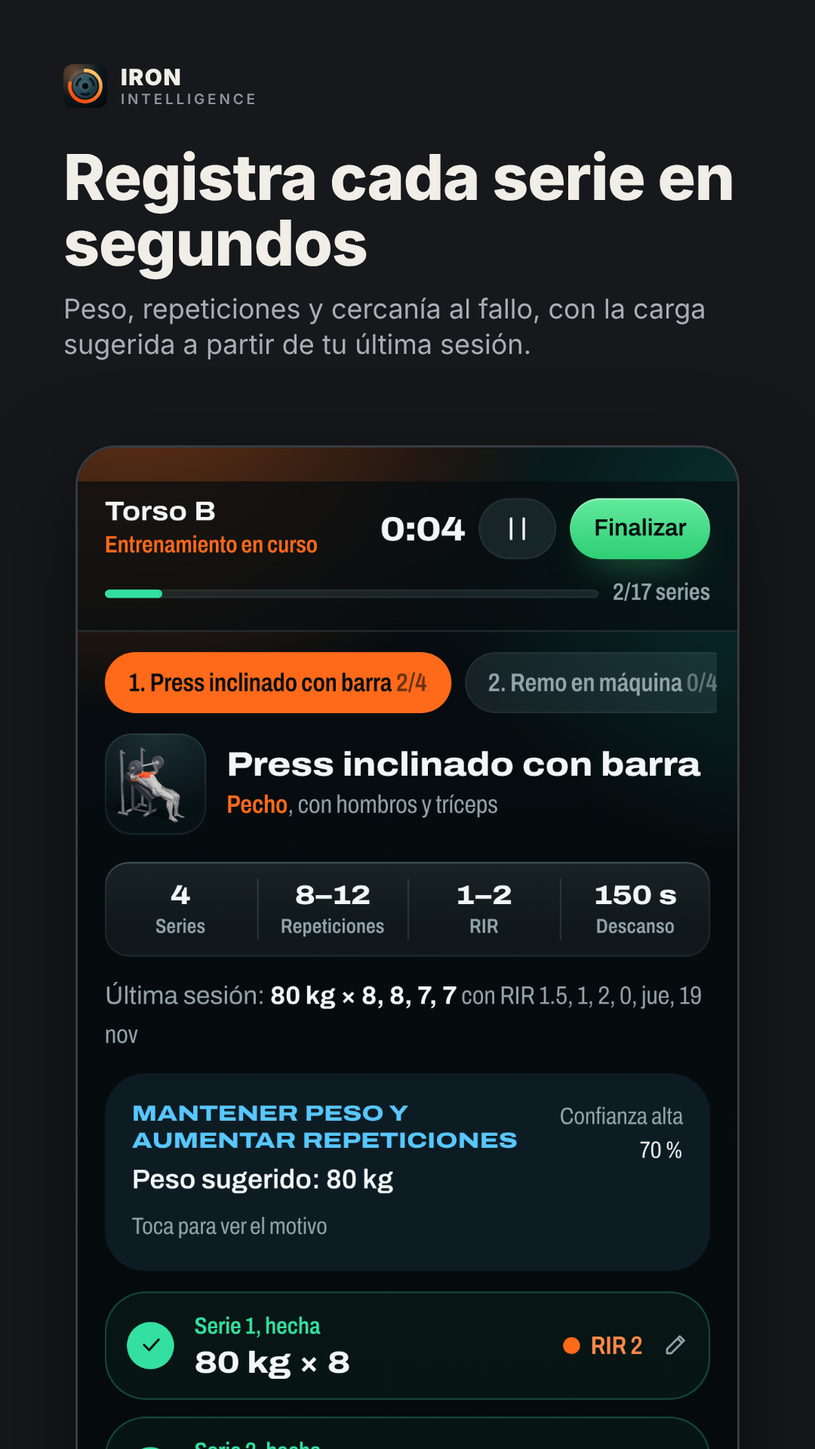
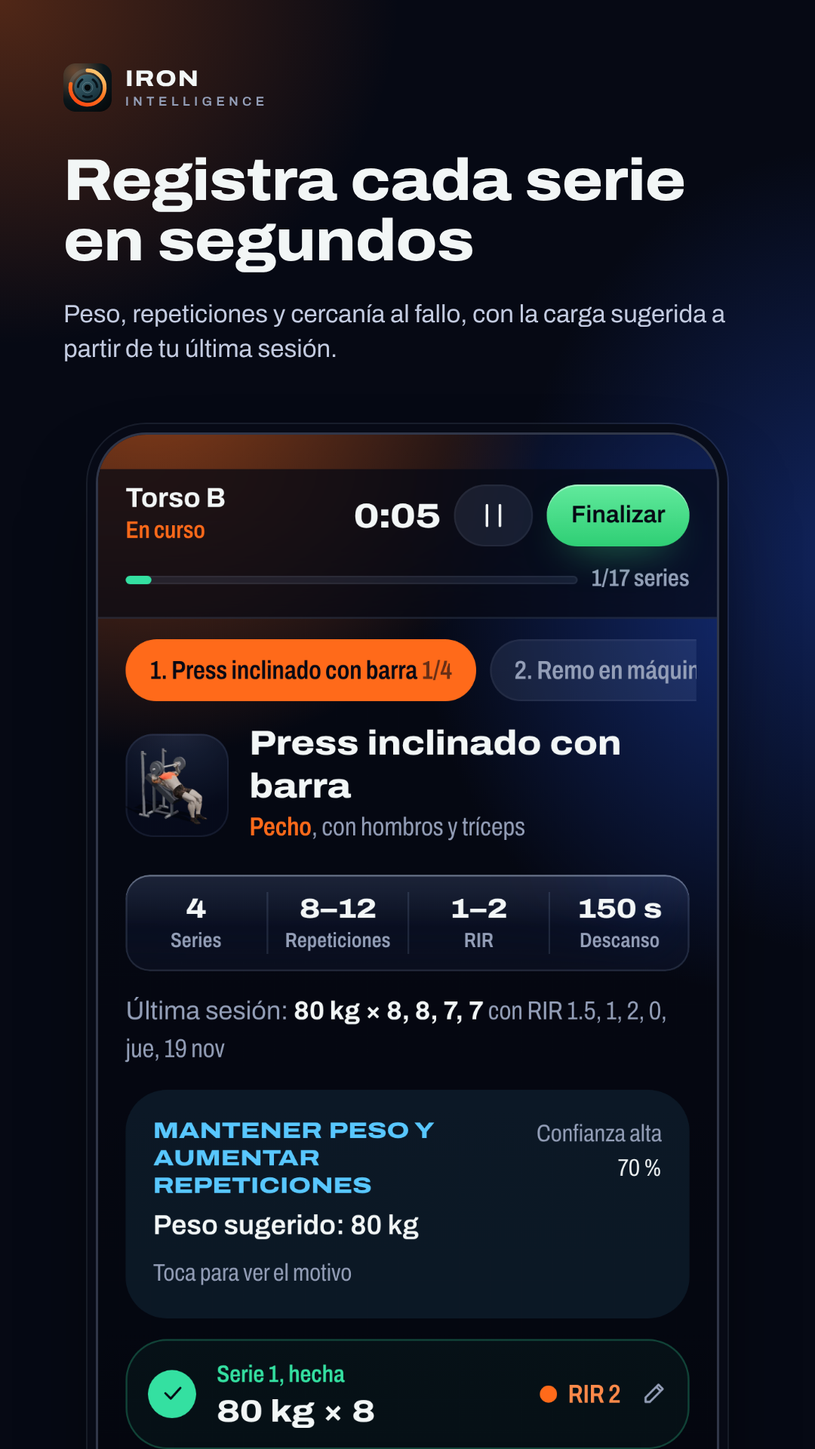
Paleta Acero nocturno con superficies de vidrio
- Fondo azul noche, vidrio frío, luz de fondo brasa y azul más intensa; el naranja de acción y los colores de datos siguen igual.
- Tarjetas con desenfoque real, filo claro y barra inferior más transparente; las hojas llevan un vidrio más denso.
- Teléfonos con 4 GB o menos y transparencia reducida: tarjetas sin desenfoque, con un poco más de cuerpo.
- Hojas, arrastres y temporizador se dibujan en el body para que el vidrio no atrape lo fijo.
- Capturas de Play Store rehechas con la paleta nueva (tools/tienda/capturas.py).

Claude-Session: https://claude.ai/code/session_01WESPivRb3g9ZrUTQocmSqs

diff --git a/src/index.css b/src/index.css
@@ -14,7 +14,7 @@
  * tienen un filo claro en el borde superior. El desenfoque real se reserva para lo que flota (barra, hojas, cabeceras);
  * los paneles usan vidrio sin desenfoque para que el desplazamiento siga fluido en teléfonos modestos.
  */
-:root { color-scheme: dark; --bg: #070d10; }
+:root { color-scheme: dark; --bg: #060914; }
 #root { isolation: isolate; }
 html, body, #root { height: 100%; }
 body {
@@ -26,7 +26,7 @@ body {
   overscroll-behavior: none; /* sin rebote ni navegación del navegador al deslizar a los lados */
 }
 /* Superficies del navegador: selección, cursor, foco y barras de desplazamiento con la paleta. */
-::selection { background: #ff6a1a; color: #070d10; }
+::selection { background: #ff6a1a; color: #060914; }
 * { caret-color: #ff6a1a; scrollbar-color: rgba(255,255,255,.16) transparent; scrollbar-width: thin; }
 :focus-visible { outline: 2px solid #ff6a1a; outline-offset: 2px; border-radius: 6px; }
 ::-webkit-scrollbar { width: 8px; height: 8px; }
@@ -55,7 +55,7 @@ a { text-underline-offset: 3px; }
   /* Cifra estampada: ancha, pesada, de ancho fijo */
   .num { font-stretch: 118%; font-weight: 800; font-variant-numeric: tabular-nums; letter-spacing: -0.01em; }
   /* Rótulo: condensado, en minúsculas, sin versalitas espaciadas */
-  .label { font-stretch: 78%; font-weight: 600; font-size: 0.8125rem; line-height: 1.2; color: #93a4ab; letter-spacing: 0.01em; }
+  .label { font-stretch: 78%; font-weight: 600; font-size: 0.8125rem; line-height: 1.2; color: #949fb8; letter-spacing: 0.01em; }
   .tnum { font-variant-numeric: tabular-nums; }
   /* Moleteado (el agarre de una barra): solo en la acción principal */
   .knurl { position: relative; overflow: hidden; }
@@ -74,13 +74,13 @@ a { text-underline-offset: 3px; }
   .ruled > * + * { border-top: 1px solid rgba(255,255,255,.08); }
 }
 /* ---------- Luz ambiente ---------- */
-.ambient { position: fixed; inset: 0; z-index: -1; pointer-events: none; overflow: hidden; background: linear-gradient(180deg, #070d10, #050a0c); }
+.ambient { position: fixed; inset: 0; z-index: -1; pointer-events: none; overflow: hidden; background: linear-gradient(180deg, #060914, #04060e); }
 .ambient::before, .ambient::after { content: ''; position: absolute; inset: 0; transition: opacity .7s ease; }
 .ambient::before {
   background:
-    radial-gradient(110% 44% at 8% -6%, rgb(255 110 30 / .40), transparent 60%),
-    radial-gradient(85% 38% at 108% 6%, rgb(18 190 170 / .22), transparent 66%),
-    radial-gradient(100% 34% at 40% 112%, rgb(12 130 120 / .22), transparent 72%);
+    radial-gradient(110% 50% at 8% -6%, rgb(255 110 30 / .55), transparent 60%),
+    radial-gradient(85% 45% at 108% 12%, rgb(40 95 255 / .40), transparent 66%),
+    radial-gradient(110% 42% at 40% 108%, rgb(30 70 200 / .38), transparent 72%);
 }
 .ambient::after {
   opacity: 0;
@@ -93,22 +93,35 @@ a { text-underline-offset: 3px; }
 .ambient[data-tone='cool']::after { opacity: 1; }
 
 /* ---------- Vidrio ---------- */
+/* Las tarjetas son vidrio esmerilado: dejan pasar la luz de fondo desenfocada. Ojo: el desenfoque convierte la tarjeta en
+   contenedor de lo que tenga `position: fixed`, por eso hojas, avisos y arrastres se dibujan fuera, en el body. */
 .bg-card {
-  background-image: linear-gradient(180deg, rgb(190 240 245 / .055), rgb(190 240 245 / 0) 70%);
-  box-shadow: inset 0 0 0 1px rgb(190 235 245 / .075), inset 0 1px 0 rgb(220 248 250 / .14), 0 18px 40px -28px rgb(0 0 0 / .9);
+  -webkit-backdrop-filter: blur(20px) saturate(170%); backdrop-filter: blur(20px) saturate(170%);
+  background-image: linear-gradient(180deg, rgb(195 215 255 / .11), rgb(195 215 255 / 0) 55%);
+  box-shadow: inset 0 0 0 1px rgb(195 215 255 / .13), inset 0 1px 0 rgb(230 238 255 / .30), 0 18px 40px -28px rgb(0 0 0 / .9);
 }
 .bg-card2 { box-shadow: inset 0 0 0 1px rgb(255 255 255 / .05); }
-/* Lo que flota sobre el contenido: vidrio esmerilado de verdad. */
+/* Lo que flota sobre el contenido: vidrio esmerilado más abierto. */
 .glass-bar {
-  background: rgb(9 21 25 / .7);
-  -webkit-backdrop-filter: blur(16px) saturate(160%); backdrop-filter: blur(16px) saturate(160%);
-  box-shadow: inset 0 0 0 1px rgb(255 255 255 / .09), inset 0 1px 0 rgb(255 255 255 / .16), 0 20px 46px -14px rgb(0 0 0 / .9);
+  background: rgb(9 14 32 / .42);
+  -webkit-backdrop-filter: blur(22px) saturate(185%); backdrop-filter: blur(22px) saturate(185%);
+  box-shadow: inset 0 0 0 1px rgb(255 255 255 / .13), inset 0 1px 0 rgb(255 255 255 / .24), 0 20px 46px -14px rgb(0 0 0 / .9);
 }
-@supports not ((backdrop-filter: blur(1px)) or (-webkit-backdrop-filter: blur(1px))) { .glass-bar { background: #151518; } }
+@supports not ((backdrop-filter: blur(1px)) or (-webkit-backdrop-filter: blur(1px))) {
+  .glass-bar { background: #0e1424; }
+  .bg-card { background-color: rgb(160 190 255 / .07); }
+}
+/* Teléfonos con poca memoria (main.tsx marca `.lite`) o con transparencia reducida: las tarjetas pierden el desenfoque,
+   que es lo caro al desplazarse, y ganan un poco de cuerpo para leerse igual. La barra inferior conserva el suyo. */
+.lite .bg-card { -webkit-backdrop-filter: none; backdrop-filter: none; background-color: rgb(160 190 255 / .07); }
+@media (prefers-reduced-transparency: reduce) {
+  .bg-card { -webkit-backdrop-filter: none; backdrop-filter: none; background-color: rgb(160 190 255 / .08); }
+  .glass-bar { background: rgb(11 16 32 / .94); }
+}
 /* Panel protagonista: vidrio que recoge la luz cálida. */
 .hero {
   position: relative; overflow: hidden;
-  background: linear-gradient(150deg, rgb(255 140 64 / .36), rgb(255 106 26 / .11) 44%, rgb(18 190 170 / .12));
+  background: linear-gradient(150deg, rgb(255 140 64 / .36), rgb(255 106 26 / .11) 44%, rgb(40 95 255 / .12));
   box-shadow: inset 0 0 0 1px rgb(255 170 110 / .22), inset 0 1px 0 rgb(255 225 195 / .30), 0 26px 60px -30px rgb(255 106 26 / .6);
 }
 .hero::after { content: ''; position: absolute; right: -70px; top: -90px; width: 230px; height: 230px; border-radius: 50%; pointer-events: none;
@@ -122,7 +135,7 @@ a { text-underline-offset: 3px; }
 .orb { background: radial-gradient(120% 120% at 30% 18%, #ffc078 0%, #ff7a26 38%, #e44c05 78%, #b83a00 100%);
   box-shadow: 0 14px 30px -8px rgb(255 106 26 / .8), 0 0 0 5px rgb(10 10 12 / .55), inset 0 2px 1px rgb(255 255 255 / .5), inset 0 -6px 12px rgb(120 30 0 / .45); }
 /* Escenario de una figura de ejercicio: un foco suave desde arriba. */
-.thumb { background: radial-gradient(130% 100% at 50% 0%, rgb(120 190 205 / .20), rgb(10 24 28 / .55) 74%); box-shadow: inset 0 0 0 1px rgb(190 235 245 / .09); }
+.thumb { background: radial-gradient(130% 100% at 50% 0%, rgb(110 145 220 / .20), rgb(8 14 34 / .55) 74%); box-shadow: inset 0 0 0 1px rgb(180 205 255 / .09); }
 .no-scrollbar::-webkit-scrollbar { display: none; }
 .no-scrollbar { scrollbar-width: none; }
 /* Hojas: el borde de abajo de la pantalla es zona de gestos del teléfono y ahí los toques se pierden. Lo último de una
@@ -143,3 +156,5 @@ a { text-underline-offset: 3px; }
   * { scroll-behavior: auto !important; transition-property: color, background-color, border-color, opacity, box-shadow !important; }
   button:active { scale: 1 !important; }
 }
+/* Hojas: el mismo vidrio, más denso, porque llevan formularios y se leen con la página detrás. */
+.glass-sheet { background: rgb(10 15 32 / .84); }

diff --git a/src/ui/shareCard.ts b/src/ui/shareCard.ts
@@ -34,7 +34,7 @@ export async function drawCard(d: CardData): Promise<Blob> {
   const cv = document.createElement('canvas'); cv.width = W; cv.height = H;
   const c = cv.getContext('2d')!;
   try { await Promise.all([document.fonts.load(`800 60px ${FONT}`), document.fonts.load(`500 40px ${FONT}`)]); } catch { /* se usa la fuente del sistema */ }
-  c.fillStyle = '#070d10'; c.fillRect(0, 0, W, H);
+  c.fillStyle = '#060914'; c.fillRect(0, 0, W, H);
   const glow = (x: number, y: number, r: number, col: string) => { const g = c.createRadialGradient(x, y, 0, x, y, r); g.addColorStop(0, col); g.addColorStop(1, 'rgba(0,0,0,0)'); c.fillStyle = g; c.fillRect(0, 0, W, H); };
   glow(120, 60, 900, 'rgba(255,106,26,.42)'); glow(W - 60, H - 120, 820, 'rgba(26,140,150,.34)');
 
@@ -42,13 +42,13 @@ export async function drawCard(d: CardData): Promise<Blob> {
   // Marca: el disco que se va completando.
   const mx = P + 36, my = 108, lg = c.createLinearGradient(mx + 22, my - 34, mx - 22, my + 34); lg.addColorStop(0, '#ffc56e'); lg.addColorStop(0.45, '#ff7a22'); lg.addColorStop(1, '#ff4a12');
   c.lineCap = 'round'; c.lineWidth = 8;
-  c.strokeStyle = 'rgba(185,232,242,.16)'; c.beginPath(); c.arc(mx, my, 32, 0, Math.PI * 2); c.stroke();
+  c.strokeStyle = 'rgba(180,205,255,.16)'; c.beginPath(); c.arc(mx, my, 32, 0, Math.PI * 2); c.stroke();
   c.strokeStyle = lg; c.beginPath(); c.arc(mx, my, 32, -Math.PI / 2, -Math.PI / 2 + (282 * Math.PI) / 180); c.stroke();
   c.fillStyle = '#2f505a'; c.beginPath(); c.arc(mx, my, 22, 0, Math.PI * 2); c.fill();
-  c.fillStyle = '#070d10'; c.beginPath(); c.arc(mx, my, 6, 0, Math.PI * 2); c.fill();
+  c.fillStyle = '#060914'; c.beginPath(); c.arc(mx, my, 6, 0, Math.PI * 2); c.fill();
   c.fillStyle = '#f2f6f6'; c.textBaseline = 'alphabetic';
   c.font = `800 40px ${FONT}`; c.fillText('IRON', P + 92, 108);
-  c.font = `500 24px ${FONT}`; c.fillStyle = '#93a4ab'; c.fillText('I N T E L L I G E N C E', P + 92, 140);
+  c.font = `500 24px ${FONT}`; c.fillStyle = '#949fb8'; c.fillText('I N T E L L I G E N C E', P + 92, 140);
 
   // Título
   c.fillStyle = '#ffb054'; c.font = `600 34px ${FONT}`; c.fillText(fit(c, tr(d.kicker), W - 2 * P), P, 300);
@@ -62,9 +62,9 @@ export async function drawCard(d: CardData): Promise<Blob> {
   const n = Math.max(1, d.stats.length), gap = 24, bw = (W - 2 * P - gap * (n - 1)) / n;
   d.stats.forEach((s, i) => {
     const x = P + i * (bw + gap);
-    round(c, x, y, bw, 190, 36); c.fillStyle = 'rgba(165,225,235,.09)'; c.fill(); c.strokeStyle = 'rgba(185,232,242,.18)'; c.lineWidth = 2; c.stroke();
+    round(c, x, y, bw, 190, 36); c.fillStyle = 'rgba(160,190,255,.09)'; c.fill(); c.strokeStyle = 'rgba(180,205,255,.18)'; c.lineWidth = 2; c.stroke();
     c.fillStyle = ['#ff6a1a', '#ffb054', '#58c7ff', '#34e0a1'][i % 4]; c.font = `800 72px ${FONT}`; c.fillText(fit(c, tr(s.value), bw - 48), x + 28, y + 102);
-    c.fillStyle = '#93a4ab'; c.font = `500 30px ${FONT}`; c.fillText(fit(c, tr(s.label), bw - 48), x + 28, y + 152);
+    c.fillStyle = '#949fb8'; c.font = `500 30px ${FONT}`; c.fillText(fit(c, tr(s.label), bw - 48), x + 28, y + 152);
   });
   y += 190 + 56;
 
@@ -74,11 +74,11 @@ export async function drawCard(d: CardData): Promise<Blob> {
     c.font = `700 36px ${FONT}`; c.fillStyle = '#f2f6f6'; c.textAlign = 'right'; c.fillText(tr(ln.right), W - P, y + 40);
     const rw = c.measureText(ln.right).width;
     c.textAlign = 'left'; c.font = `500 36px ${FONT}`; c.fillStyle = '#c3ccd0'; c.fillText(fit(c, tr(ln.left), W - 2 * P - rw - 36), P, y + 40);
-    c.fillStyle = 'rgba(185,232,242,.14)'; c.fillRect(P, y + 64, W - 2 * P, 2);
+    c.fillStyle = 'rgba(180,205,255,.14)'; c.fillRect(P, y + 64, W - 2 * P, 2);
     y += 76;
   });
 
-  c.fillStyle = '#93a4ab'; c.font = `600 28px ${FONT}`; c.fillText(tr('REGISTRA. ANALIZA. PROGRESA.'), P, H - 78);
+  c.fillStyle = '#949fb8'; c.font = `600 28px ${FONT}`; c.fillText(tr('REGISTRA. ANALIZA. PROGRESA.'), P, H - 78);
   return new Promise((res, rej) => cv.toBlob((b) => (b ? res(b) : rej(new Error('No se pudo crear la imagen'))), 'image/png'));
 }
 

diff --git a/src/pages/Workout.tsx b/src/pages/Workout.tsx
@@ -1,5 +1,6 @@
 // REGISTRO DE ENTRENAMIENTO — funcionalidad principal.
 // Cada cambio se escribe de inmediato en la base local: si la app se cierra, la sesión se recupera tal cual.
+import { createPortal } from 'react-dom';
 import { ADJ_KEY } from '../domain/feedback';
 import { ToolsButton } from '../ui/extras';
 import { WeightWheel } from '../ui/plates';
@@ -548,7 +549,7 @@ function GroupPanel({ session, exs, sets, history, readiness, halfRir, onRest, o
 function RestBar({ rest, now, onChange }: { rest: Rest; now: number; onChange: (r: Rest | null) => void }) {
   const left = Math.max(0, rest.end - now);
   const pct = rest.total > 0 ? left / (rest.total * 1000) : 0;
-  return (
+  return createPortal(
     <div className="fixed inset-x-0 bottom-[108px] z-30 px-3 md:bottom-4 md:left-60" role="timer" aria-label="Descanso">
       <div className="mx-auto flex max-w-xl items-center gap-2 glass-bar rounded-panel p-3 animate-rise [&>button]:shrink-0">
         <svg width="46" height="46" viewBox="0 0 46 46" className="shrink-0 -rotate-90"><circle cx="23" cy="23" r="19" stroke="rgba(255,255,255,.12)" strokeWidth="5" fill="none" /><circle cx="23" cy="23" r="19" stroke="#58c7ff" strokeWidth="5" fill="none" strokeLinecap="round" strokeDasharray={119.4} strokeDashoffset={119.4 * (1 - Math.min(1, pct))} /></svg>
@@ -560,7 +561,8 @@ function RestBar({ rest, now, onChange }: { rest: Rest; now: number; onChange: (
         <Btn size="sm" aria-label="Sumar 15 segundos" onClick={() => onChange({ end: rest.end + 15000, total: rest.total + 15 })}>+15</Btn>
         <Btn size="sm" variant="primary" onClick={() => onChange(null)}>Omitir</Btn>
       </div>
-    </div>
+    </div>,
+    document.body,
   );
 }
 
@@ -718,7 +720,7 @@ function Active({ session }: { session: Session }) {
       {hint && units.length > 1 && <p className="wd-c -mt-1 mb-3 text-sm text-mute">Desliza a los lados para cambiar de ejercicio. Mantén presionado uno y arrástralo sobre otro para unirlos en biserie.</p>}
       {drag.ghost}
       {/* En el teléfono caben pocos ejercicios en la fila: al arrastrar se muestran todos los destinos en una lista. */}
-      {drag.dragging && (
+      {drag.dragging && createPortal(
         <div className="fixed inset-x-0 bottom-[112px] z-50 px-3 md:bottom-4 md:left-60" data-drop-zone aria-hidden>
           <div className="glass-bar mx-auto max-w-xl rounded-panel p-2 animate-rise">
             <div className="label px-2 pb-1.5">Suelta sobre un ejercicio para unirlos</div>
@@ -730,7 +732,8 @@ function Active({ session }: { session: Session }) {
               ))}
             </div>
           </div>
-        </div>
+        </div>,
+        document.body,
       )}
 
       {session.notes?.includes(DELOAD_TAG) && <div className="mb-3 rounded-ctl bg-data/10 p-3 text-sm"><b className="text-data">Semana de descarga.</b> Menos series, menos carga y lejos del fallo: hoy toca recuperar.</div>}

diff --git a/src/ui/components.tsx b/src/ui/components.tsx
@@ -1,3 +1,4 @@
+import { createPortal } from 'react-dom';
 import { Component, createContext, useCallback, useContext, useEffect, useRef, useState, type ButtonHTMLAttributes, type ReactNode } from 'react';
 
 const cx = (...xs: (string | false | null | undefined)[]) => xs.filter(Boolean).join(' ');
@@ -140,7 +141,7 @@ export function Chip({ active, children, onClick, color }: { active?: boolean; c
   return (
     <button type="button" onClick={onClick} aria-pressed={active}
       className={cx('hit wd-c h-9 shrink-0 rounded-full px-3.5 text-[15px] font-semibold transition-colors', active ? 'bg-chalk text-ink' : 'bg-card2 text-mute hover:text-chalk')}
-      style={active && color ? { background: color, color: '#070d10' } : undefined}>
+      style={active && color ? { background: color, color: '#060914' } : undefined}>
       {children}
     </button>
   );
@@ -214,10 +215,11 @@ export function Sheet({ open, onClose, title, children, wide, float }: { open: b
     return () => window.removeEventListener('keydown', onKey);
   }, [open, onClose]);
   if (!open) return null;
-  return (
+  // Se dibuja en el body: dentro de una tarjeta de vidrio, `position: fixed` quedaría atrapado en la tarjeta.
+  return createPortal(
     <div className={cx('fixed inset-0 z-50 flex items-end justify-center md:items-center', float && 'sheet-float')} role="dialog" aria-modal>
       <div className="absolute inset-0 bg-black/55 backdrop-blur-[3px] animate-fade" onClick={onClose} />
-      <div className={cx('relative w-full overflow-y-auto glass-bar p-5 md:animate-pop md:rounded-sheet', float ? 'max-h-[78vh] rounded-sheet animate-rise' : 'sheet-pad max-h-[92vh] rounded-t-sheet animate-sheet', wide ? 'md:max-w-2xl' : 'md:max-w-md')}>
+      <div className={cx('relative w-full overflow-y-auto glass-bar glass-sheet p-5 md:animate-pop md:rounded-sheet', float ? 'max-h-[78vh] rounded-sheet animate-rise' : 'sheet-pad max-h-[92vh] rounded-t-sheet animate-sheet', wide ? 'md:max-w-2xl' : 'md:max-w-md')}>
         {!float && <div className="mx-auto mb-3 h-1 w-10 rounded-full bg-line md:hidden" aria-hidden />}
         <div className="mb-4 flex items-center justify-between gap-3">
           <h3 className="wd-w min-w-0 truncate text-lg font-bold">{title}</h3>
@@ -225,7 +227,8 @@ export function Sheet({ open, onClose, title, children, wide, float }: { open: b
         </div>
         {children}
       </div>
-    </div>
+    </div>,
+    document.body,
   );
 }
 

diff --git a/tailwind.config.js b/tailwind.config.js
@@ -1,17 +1,17 @@
 /** @type {import('tailwindcss').Config} */
-// Sistema visual "brasa y petróleo": una sala oscura azul verdosa con una fuente de luz. La luz es cálida cuando se entrena y
+// Sistema visual "acero nocturno": una sala azul noche con una fuente de luz. La luz es cálida cuando se entrena y
 // fría cuando se analiza; las superficies son vidrio que la deja pasar. El naranja queda para la acción y el esfuerzo.
 export default {
   content: ['./index.html', './src/**/*.{ts,tsx}'],
   theme: {
     extend: {
       colors: {
-        ink: '#070d10',                      // fondo de la sala
-        graphite: '#0c161a',                 // barras y hojas (base opaca bajo el desenfoque)
-        card: 'rgba(165,225,235,0.06)',     // vidrio: superficies
-        card2: 'rgba(170,228,238,0.10)',     // vidrio más denso: controles
-        line: 'rgba(185,232,242,0.13)',      // filetes
-        mute: '#93a4ab',                     // texto secundario
+        ink: '#060914',                      // fondo de la sala
+        graphite: '#0b1020',                 // barras y hojas (base opaca bajo el desenfoque)
+        card: 'rgba(160,190,255,0.035)',    // vidrio: superficies (con desenfoque, ver index.css)
+        card2: 'rgba(170,198,255,0.10)',     // vidrio más denso: controles
+        line: 'rgba(180,205,255,0.13)',      // filetes
+        mute: '#949fb8',                     // texto secundario
         chalk: '#f2f6f6',                    // texto
         fire: '#ff6a1a',                     // intensidad y acción principal
         amber: '#ffb054',                    // reflejo cálido

diff --git a/src/ui/Layout.tsx b/src/ui/Layout.tsx
@@ -48,7 +48,7 @@ export function Plate({ size = 48, active }: { size?: number; active?: boolean }
       <path d="M24 3.5A20.5 20.5 0 1 1 3.95 19.74" fill="none" stroke={`url(#${id})`} strokeWidth="5" strokeLinecap="round" />
       <circle cx="24" cy="24" r="14.2" fill="#2f505a" stroke="#d6f1f6" strokeOpacity=".28" strokeWidth=".6" />
       <circle cx="24" cy="24" r="6" fill="none" stroke="#d6f1f6" strokeOpacity=".34" strokeWidth=".9" />
-      <circle cx="24" cy="24" r="3.6" fill="#070d10" />
+      <circle cx="24" cy="24" r="3.6" fill="#060914" />
       {active && <circle cx="24" cy="24" r="1.8" fill="#ffb054" />}
     </svg>
   );
@@ -64,7 +64,7 @@ export default function Layout() {
   const uid = useUserId();
   const noAccount = cloudEnabled && uid === 'local';
   const syncLabel = noAccount ? 'Sin cuenta · solo este dispositivo' : { local: 'Modo local', idle: sync.lastSync ? 'Sincronizado' : 'Pendiente de sincronizar', syncing: 'Sincronizando…', error: 'Sin sincronizar', offline: 'Sin conexión' }[sync.status];
-  const dot = noAccount ? '#93a4ab' : { local: '#93a4ab', idle: sync.lastSync ? '#34e0a1' : '#f5c542', syncing: '#58c7ff', error: '#ff3b30', offline: '#f5c542' }[sync.status];
+  const dot = noAccount ? '#949fb8' : { local: '#949fb8', idle: sync.lastSync ? '#34e0a1' : '#f5c542', syncing: '#58c7ff', error: '#ff3b30', offline: '#f5c542' }[sync.status];
   return (
     <div className="min-h-full md:flex">
       <div className="ambient" data-tone={COOL.some((c) => pathname.startsWith(c)) ? 'cool' : 'warm'} aria-hidden />

diff --git a/src/domain/calc.ts b/src/domain/calc.ts
@@ -42,13 +42,13 @@ export interface IntensityInfo { label: string; short: string; color: string; te
  * `color` es el relleno; `text` es la variante legible sobre fondo oscuro.
  */
 export function intensityOf(rir: number | null): IntensityInfo {
-  if (rir == null) return { label: 'Sin RIR registrado', short: 'sin RIR', color: '#4a505a', text: '#93a4ab', level: 0 };
+  if (rir == null) return { label: 'Sin RIR registrado', short: 'sin RIR', color: '#4a505a', text: '#949fb8', level: 0 };
   if (rir <= 0) return { label: 'Fallo muscular reportado', short: 'Fallo', color: '#ffe2a8', text: '#ffe2a8', level: 5 };
   if (rir <= 1) return { label: 'Proximidad muy elevada', short: 'Muy cerca', color: '#ffa63d', text: '#ffb65c', level: 4 };
   if (rir <= 2) return { label: 'Proximidad elevada al fallo', short: 'Cerca', color: '#ff6a1a', text: '#ff8a4a', level: 3 };
   if (rir <= 3) return { label: 'Esfuerzo moderado-alto', short: 'Moderado-alto', color: '#c2412d', text: '#f0705a', level: 2 };
   if (rir <= 4) return { label: 'Intensidad relativamente baja', short: 'Moderado', color: '#8a4a3a', text: '#d08a78', level: 1 };
-  return { label: 'Muy lejos del fallo', short: 'Lejos', color: '#5e6670', text: '#93a4ab', level: 1 };
+  return { label: 'Muy lejos del fallo', short: 'Lejos', color: '#5e6670', text: '#949fb8', level: 1 };
 }
 
 // ---- Fechas (hora local) ----

diff --git a/src/ui/useHoldDrag.tsx b/src/ui/useHoldDrag.tsx
@@ -1,6 +1,7 @@
 // Mantener presionado y arrastrar un elemento sobre otro (para unir ejercicios en biserie).
 // Los destinos se marcan con `data-drop-id`. Funciona con dedo y con ratón; quien no pueda usar el gesto
 // tiene siempre un botón equivalente en pantalla.
+import { createPortal } from 'react-dom';
 import { useCallback, useEffect, useRef, useState, type PointerEvent as RPointerEvent } from 'react';
 
 const HOLD_MS = 380, SLOP = 10, EDGE = 44;
@@ -85,10 +86,11 @@ export function useHoldDrag(onDrop: (dragId: string, targetId: string) => void, 
 
   const guard: HoldDrag['guard'] = (fn) => (...a) => { if (Date.now() - lastDrag.current > 80) fn(...a); };
 
-  const ghost = state ? (
+  const ghost = state ? createPortal(
     <div aria-hidden className="pointer-events-none fixed z-50 -translate-x-1/2 -translate-y-[140%] rounded-full bg-chalk px-3.5 py-2 text-sm font-bold text-ink shadow-[0_10px_30px_rgba(0,0,0,.6)]" style={{ left: state.x, top: state.y }}>
       {state.over ? 'Soltar para unir' : state.label}
-    </div>
+    </div>,
+    document.body,
   ) : null;
 
   return { bind, dragging: state?.id ?? null, over: state?.over ?? null, guard, ghost };

diff --git a/src/ui/extras.tsx b/src/ui/extras.tsx
@@ -329,7 +329,7 @@ export function InsightCards() {
         <H2>Constancia</H2>
         <Card>
           <div className="flex items-end justify-between gap-3"><div><div className="num text-3xl">{ad.pct} %</div><div className="label">del plan en 7 semanas</div></div>
-            <div className="flex h-14 items-end gap-1" aria-hidden>{ad.weeks.map((w) => <div key={w.start} className="w-3 rounded-sm" style={{ height: `${Math.max(8, Math.min(100, (w.done / Math.max(1, w.planned)) * 100))}%`, background: w.done >= w.planned ? '#34e0a1' : w.done ? '#ffb054' : 'rgba(185,232,242,.18)' }} />)}</div>
+            <div className="flex h-14 items-end gap-1" aria-hidden>{ad.weeks.map((w) => <div key={w.start} className="w-3 rounded-sm" style={{ height: `${Math.max(8, Math.min(100, (w.done / Math.max(1, w.planned)) * 100))}%`, background: w.done >= w.planned ? '#34e0a1' : w.done ? '#ffb054' : 'rgba(180,205,255,.18)' }} />)}</div>
           </div>
           <p className="mt-2 text-xs text-mute">Sesiones hechas contra tus {p.daysAvailable} días planificados por semana. La semana en curso se muestra, pero no cuenta en el porcentaje.</p>
         </Card>

diff --git a/src/pages/Analysis.tsx b/src/pages/Analysis.tsx
@@ -159,7 +159,7 @@ export default function Analysis() {
             {trends.length ? <div className="space-y-1.5">{trends.map((t) => (
               <div key={t.id} className="flex items-center justify-between gap-3 text-sm">
                 <span className="truncate">{t.name}</span>
-                <span className="shrink-0 font-bold tnum" style={{ color: t.trend === 'improving' ? '#34e0a1' : t.trend === 'declining' ? '#ff6a1a' : '#93a4ab' }}>{t.pct > 0 ? '+' : ''}{t.pct.toFixed(1)} % · {t.trend === 'improving' ? 'mejora' : t.trend === 'declining' ? 'baja' : 'estable'}</span>
+                <span className="shrink-0 font-bold tnum" style={{ color: t.trend === 'improving' ? '#34e0a1' : t.trend === 'declining' ? '#ff6a1a' : '#949fb8' }}>{t.pct > 0 ? '+' : ''}{t.pct.toFixed(1)} % · {t.trend === 'improving' ? 'mejora' : t.trend === 'declining' ? 'baja' : 'estable'}</span>
               </div>
             ))}</div> : <p className="text-sm text-mute">Se necesitan 3 o más sesiones por ejercicio.</p>}
             <p className="mt-3 text-xs text-mute">Cambio del 1RM estimado: últimas 2 sesiones frente a las 3 anteriores.</p>

diff --git a/src/ui/charts.tsx b/src/ui/charts.tsx
@@ -1,8 +1,8 @@
 // Envoltorios de Recharts con el estilo de la app.
 import { Bar, BarChart, CartesianGrid, Line, LineChart, ResponsiveContainer, Tooltip, XAxis, YAxis } from 'recharts';
 
-const axis = { stroke: '#93a4ab', fontSize: 11, tickLine: false, axisLine: false } as const;
-const tip = { contentStyle: { background: '#202328', border: '1px solid #363b43', borderRadius: 12, fontSize: 12 }, labelStyle: { color: '#93a4ab' }, cursor: { stroke: '#363b43', fill: '#ffffff08' } } as const;
+const axis = { stroke: '#949fb8', fontSize: 11, tickLine: false, axisLine: false } as const;
+const tip = { contentStyle: { background: '#202328', border: '1px solid #363b43', borderRadius: 12, fontSize: 12 }, labelStyle: { color: '#949fb8' }, cursor: { stroke: '#363b43', fill: '#ffffff08' } } as const;
 
 export function LineC({ data, x, y, color = '#58c7ff', unit = '', height = 220 }: { data: Record<string, unknown>[]; x: string; y: string; color?: string; unit?: string; height?: number }) {
   return (

diff --git a/src/ui/plates.tsx b/src/ui/plates.tsx
@@ -63,9 +63,9 @@ export function WeightWheel({ value, step, onChange, label }: { value: number; s
 // (25 rojo, 20 azul, 15 amarillo, 10 verde, 5 blanco) con la paleta de la app.
 const LOOK: Record<number, [number, number, string]> = {
   25: [128, 18, '#ff6a1a'], 20: [118, 18, '#58c7ff'], 15: [104, 16, '#ffb054'], 10: [90, 14, '#34e0a1'],
-  5: [72, 12, '#f2f6f6'], 2.5: [56, 10, '#93a4ab'], 1.25: [44, 8, '#5d7178'],
+  5: [72, 12, '#f2f6f6'], 2.5: [56, 10, '#949fb8'], 1.25: [44, 8, '#5d7178'],
 };
-const lookOf = (p: number): [number, number, string] => LOOK[p] ?? [Math.round(40 + Math.min(25, p) * 3.5), p >= 15 ? 18 : p >= 5 ? 13 : 9, '#93a4ab'];
+const lookOf = (p: number): [number, number, string] => LOOK[p] ?? [Math.round(40 + Math.min(25, p) * 3.5), p >= 15 ? 18 : p >= 5 ? 13 : 9, '#949fb8'];
 
 /** La barra cargada, vista de frente: los discos de cada lado en el orden en que se ponen. */
 export function PlateBar({ side, bar }: { side: number[]; bar: number }) {
